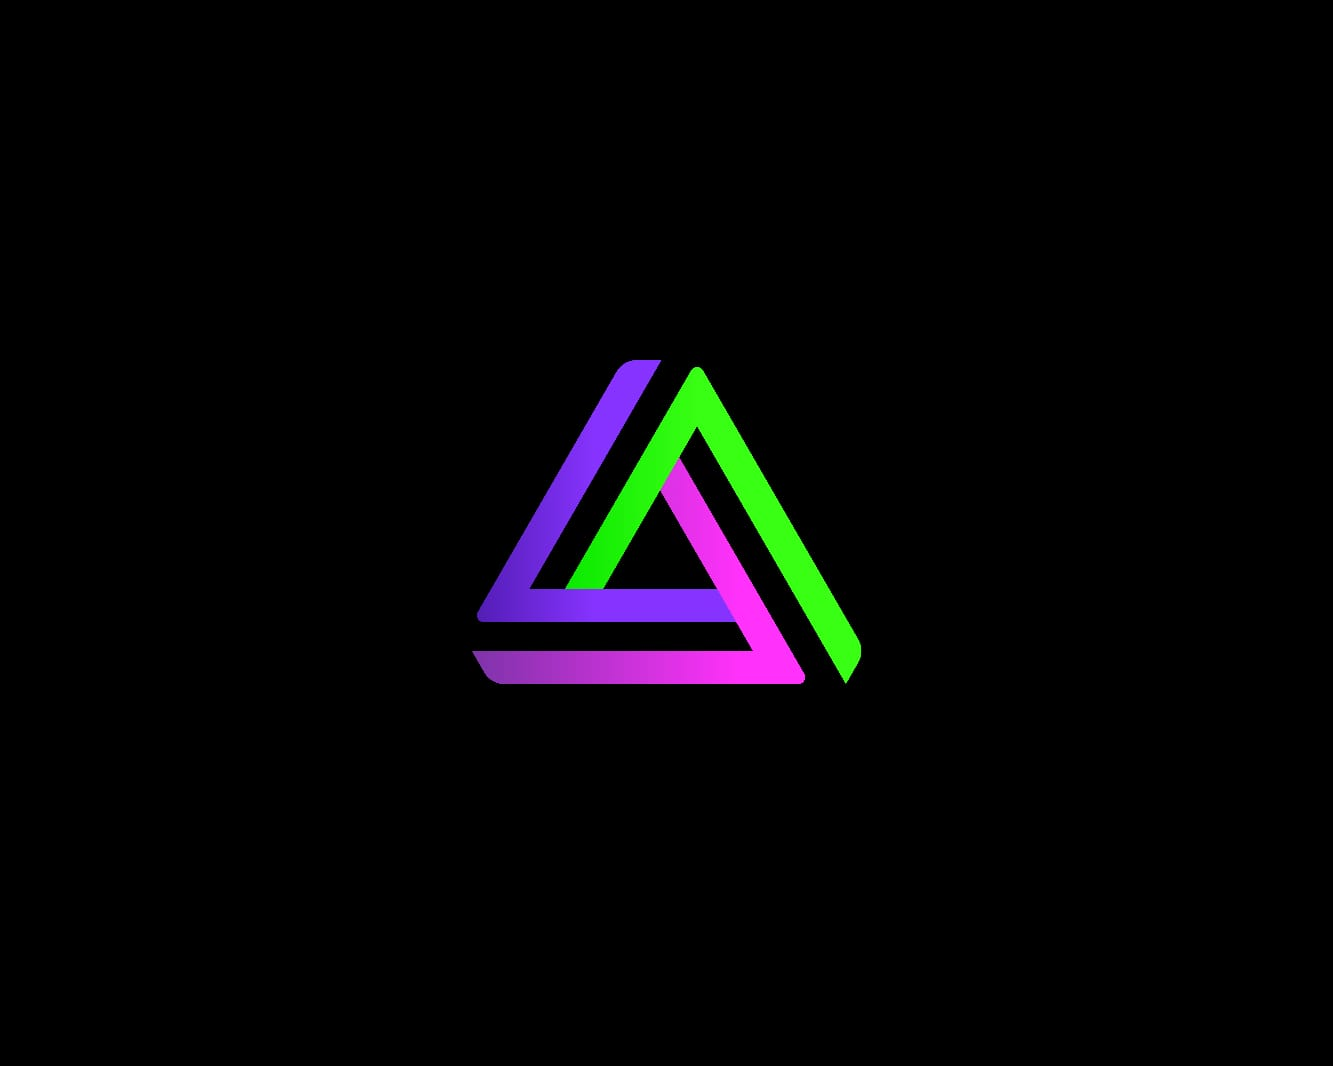
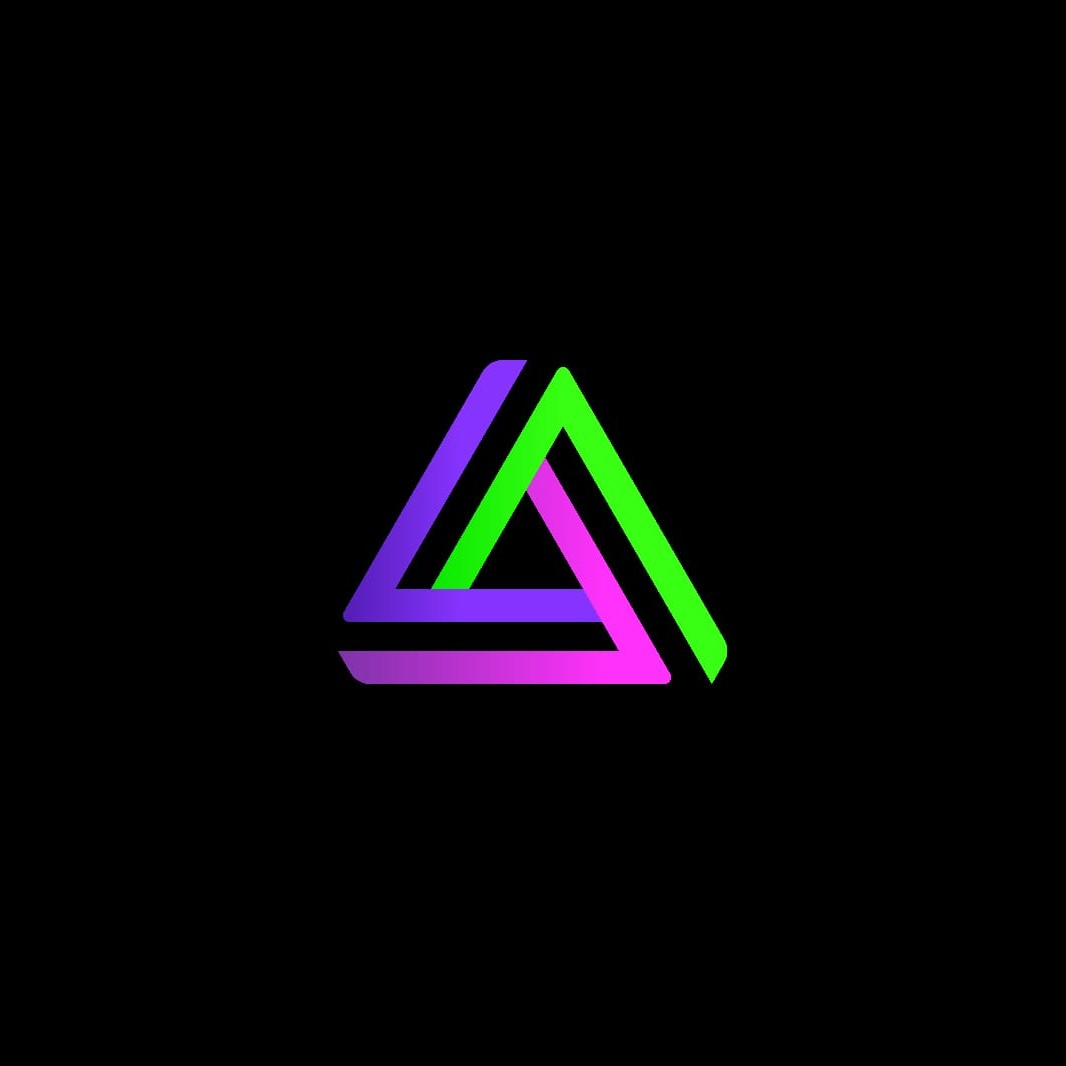
spinner size updated

Changed region(s): [[0.3096, 0.3405, 0.6811, 0.6501]]

diff --git a/index.html b/index.html
@@ -25,9 +25,9 @@
       }
 
       #loader img {
-        width: 1000px;
-        height: 1000px;
-        animation: spin 5s linear infinite;
+        width: 500px;
+        height: 500px;
+        animation: spin 5s linear  infinite;
       }
 
       @keyframes spin {
